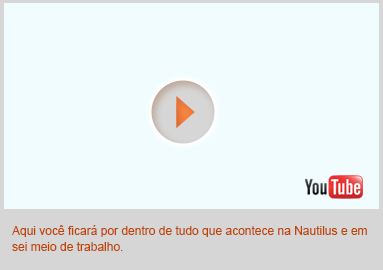
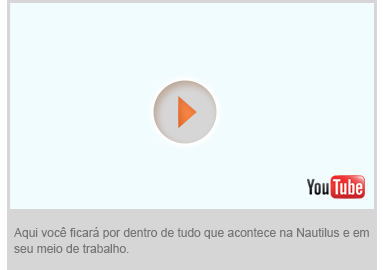
Ajustes Home

diff --git a/public/stylesheets/template.css b/public/stylesheets/template.css
@@ -11,9 +11,9 @@
 	position:relative;
 	bottom:0px;
 	background-color:#fff;
-	height:125px;
+	height:145px;
 	z-index:1000;
-	margin-top:-130px;
+	margin-top:-32px;
 	}
 
 @charset "utf-8";
@@ -110,6 +110,50 @@ body
 	background-color:#f9ffff;
 	z-index:10000;
 }
+
+#box_top_bar_1{
+	float:right;
+	margin-right:30px;
+	margin-top:28px;
+	}
+
+#box_top_bar_1 img{
+	float:right;
+	margin-left:5px;
+	margin-top:5px;
+	}
+
+.field_form_busca{
+	width:176px;
+	height:23px;
+	background-image:url(../images/bg_form_busca.png);
+	background-repeat:no-repeat;
+	background-position:center;
+	border:1px solid transparent;
+	margin-top:8px;
+	padding-left:10px;
+	color:#a9a9a9;
+	font-size:10px;
+	}
+
+#box_top_bar_2{
+	float:right;
+	margin-top:40px;
+	}
+
+.field_form_amigo{
+	width:106px;
+	height:20px;
+	background-image:url(../images/bg_form_amigo.png);
+	background-repeat:no-repeat;
+	background-position:center;
+	border:1px solid transparent;
+	margin-top:8px;
+	padding-left:10px;
+	color:#a9a9a9;
+	font-size:10px;
+	}
+
 #GeneralbgFooter
 {
 	position:relative;
@@ -524,7 +568,7 @@ body
 		min-height:620px;
 		height:auto;
 		margin:auto;
-		margin-top:-5px;
+		margin-top:17px;
 		font-family:Arial, Helvetica, sans-serif;
 	}
 	#Detail
@@ -591,6 +635,11 @@ body
 				float:left;				
 				padding: 0px 0px 0px 0px;
 			}
+			
+			#Content #Box_left #Noticias_box h1 img
+			{
+				margin-top:10px;
+				}
 			#Content #Box_left #Item_noticias
 			{	
 				position:relative;
@@ -720,13 +769,13 @@ body
 					height:39px;
 					position:relative;	
 					top:102px;
-					left:-19px;
+					left:-13px;
 					background-image:url(../images/bg_p_planilha.png);
 					background-repeat:repeat;				
 					font-family:Verdana, Geneva, sans-serif;
-					font-size:14px;
+					font-size:13px;
 					font-weight:normal !important;
-					color:#0073b3;
+					color:#004aaa;
 					font-weight:normal;	
 					text-align:left;
 					padding:11px 0px 0px 10px
@@ -812,14 +861,13 @@ body
 				}							
 			#Content #Box_right #Ondeencontrar_box
 			{
-				background:url(../images/bg_onde_encontrar.png);
 				background-repeat:repeat-x;
 				position:relative;
 				display:block;
 				width:385px;
 				height:90px;
 				padding: 0px 0px 0px 0px;
-				margin-top:80px;
+				margin-top:98px;
 				margin-bottom:20px;		
 			}	
 				#Content #Box_right #Ondeencontrar_box p
@@ -827,7 +875,25 @@ body
 					padding: 0px 0px 0px 5px;
 					line-height:15px;
 					margin-top:5px;				
-				}			
+				}
+			
+			.onde_link{
+				margin-left:120px;
+				margin-top:30px !important;
+				
+				}
+			.onde_link a{
+				font-family:Arial, Helvetica, sans-serif;
+				font-size:12px;
+				font-weight:normal;
+				color:#595959;
+				text-decoration:none;
+				}
+			
+			.onde_form{
+				margin-left:122px;
+				margin-top:5px;
+				}
 			
 	#Footer
 	{
@@ -839,11 +905,12 @@ body
 		min-height:132px;
 		margin:auto;
 		clear:both;	
+		top:100px;
 	}	
 		#Footer_content
 		{
 			font-family:Arial, Helvetica, sans-serif;
-			color:#0066cc;
+			color:#0073b3;
 			font-size:12px;
 			position:relative;
 			width:960px;
@@ -860,7 +927,7 @@ body
 		}
 		.Text_nautilus_foot
 		{
-		 color:#ff3300;
+		 color:#0073b3;
 		 font-size:17px;
 		}
 		.Logos_place_foot	
